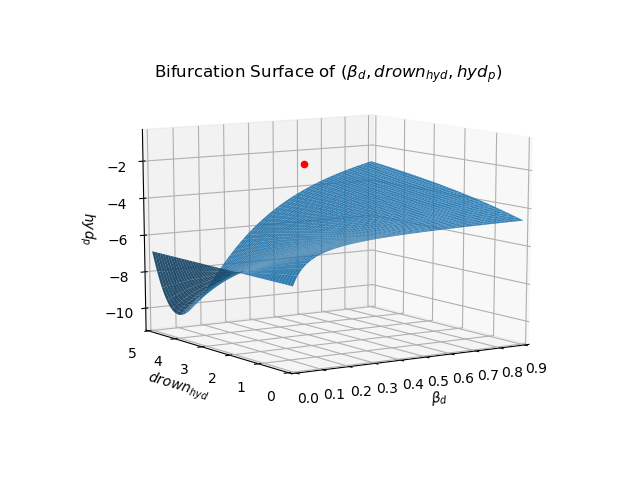
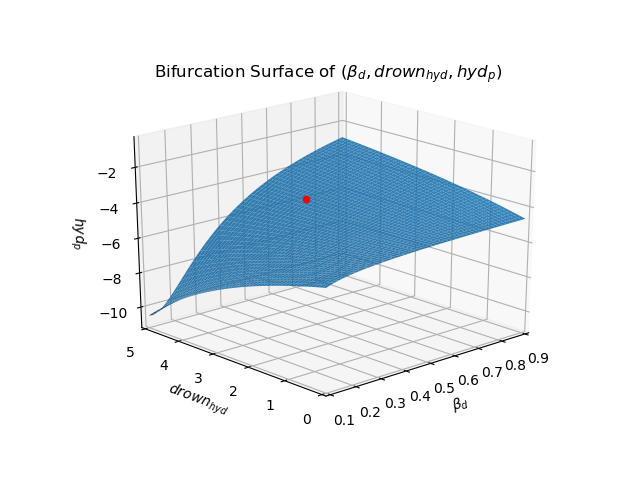
Some new surfaces

diff --git a/mangrove-peat-salt/determinantSolver.py b/mangrove-peat-salt/determinantSolver.py
@@ -108,9 +108,9 @@ symDroughts = [(sym,drought[chSymtoLabel(sym)]) for sym in params]
 # concS, betaE, betaV
 
 
-X = stressS
-Y = betaS
-Z = growPrecip
+X = sedHyd
+Y = betaA
+Z = subsHyd
 
 blacklist = [betaP, betaL, betaR] 
 check = [(par in blacklist) for par in [X,Y,Z]]
@@ -125,12 +125,12 @@ xMin = ranges[chSymtoLabel(X)][0]
 xMax = ranges[chSymtoLabel(X)][1]
 
 yMin = ranges[chSymtoLabel(Y)][0]
-yMax = ranges[chSymtoLabel(Y)][1] -0.1
+yMax = ranges[chSymtoLabel(Y)][1]-0.1
 
 zAxMin = ranges[chSymtoLabel(Z)][0]
 zAxMax = ranges[chSymtoLabel(Z)][1]
 
-truncate = False
+truncate = True
 #########
 # Jacobian components
 mortD = betaD/(betaD+betaS)
@@ -144,7 +144,7 @@ betaP = 1 - betaG
 betaL = 1 - betaD - betaS
 
 betaR = 1 - betaA - betaV
-betaSB = 1 - betaE
+betaE = 1 - betaSB
 
 
 dmdm = betaP*dPropdM +betaG*dGrowdM-betaS*stressM -betaD*drownM -betaL*littM
@@ -221,7 +221,8 @@ if truncate == True:
     for i in range(len(xx)):
         for j in range(len(yy)):
             if (zz[j,i] < zAxMin) or (zz[j,i] > zAxMax): zz[j,i] = np.nan
-            if (zz2[j,i] < zAxMin) or (zz2[j,i] > zAxMax): zz2[j,i] = np.nan
+            if showDrought:
+                if (zz2[j,i] < zAxMin) or (zz2[j,i] > zAxMax): zz2[j,i] = np.nan
             
 
         

diff --git a/mangrove-peat-salt/modelFullvary2.py b/mangrove-peat-salt/modelFullvary2.py
@@ -18,7 +18,7 @@ from systemTypes import typeNode
 # S = soil salinity (ppm?)
 
 # Linspace range
-n = 100000
+n = 1000000
 
 # ---------------
 # Timescales
@@ -86,7 +86,7 @@ r0 = 0.5
 r1 = 2
 
 
-hydP = random.uniform(-2.0, 0, n)
+hydP = random.uniform(-1.0, 0, n)
 # Mangroves
 propM = random.uniform(r0, r1, n) 
 propS = random.uniform(-3, 0.0, n)
@@ -231,7 +231,7 @@ for typ in set(typeList):
 corrs = {k:(np.corrcoef(data[k],stab)[0,1]) for (k,v) in data.items() }
 
 #Sort out only the big correlations
-numPlot = 15 # number of variables to plot
+numPlot = 5 # number of variables to plot
 remNum = len(corrs.items()) - numPlot #number of variables to remove
 absCorrs = {k: np.abs(v) for (k,v) in corrs.items() if not isnan(v)}
 corrsSorted = sorted(absCorrs.items(), key=lambda x: x[1], reverse=True)
